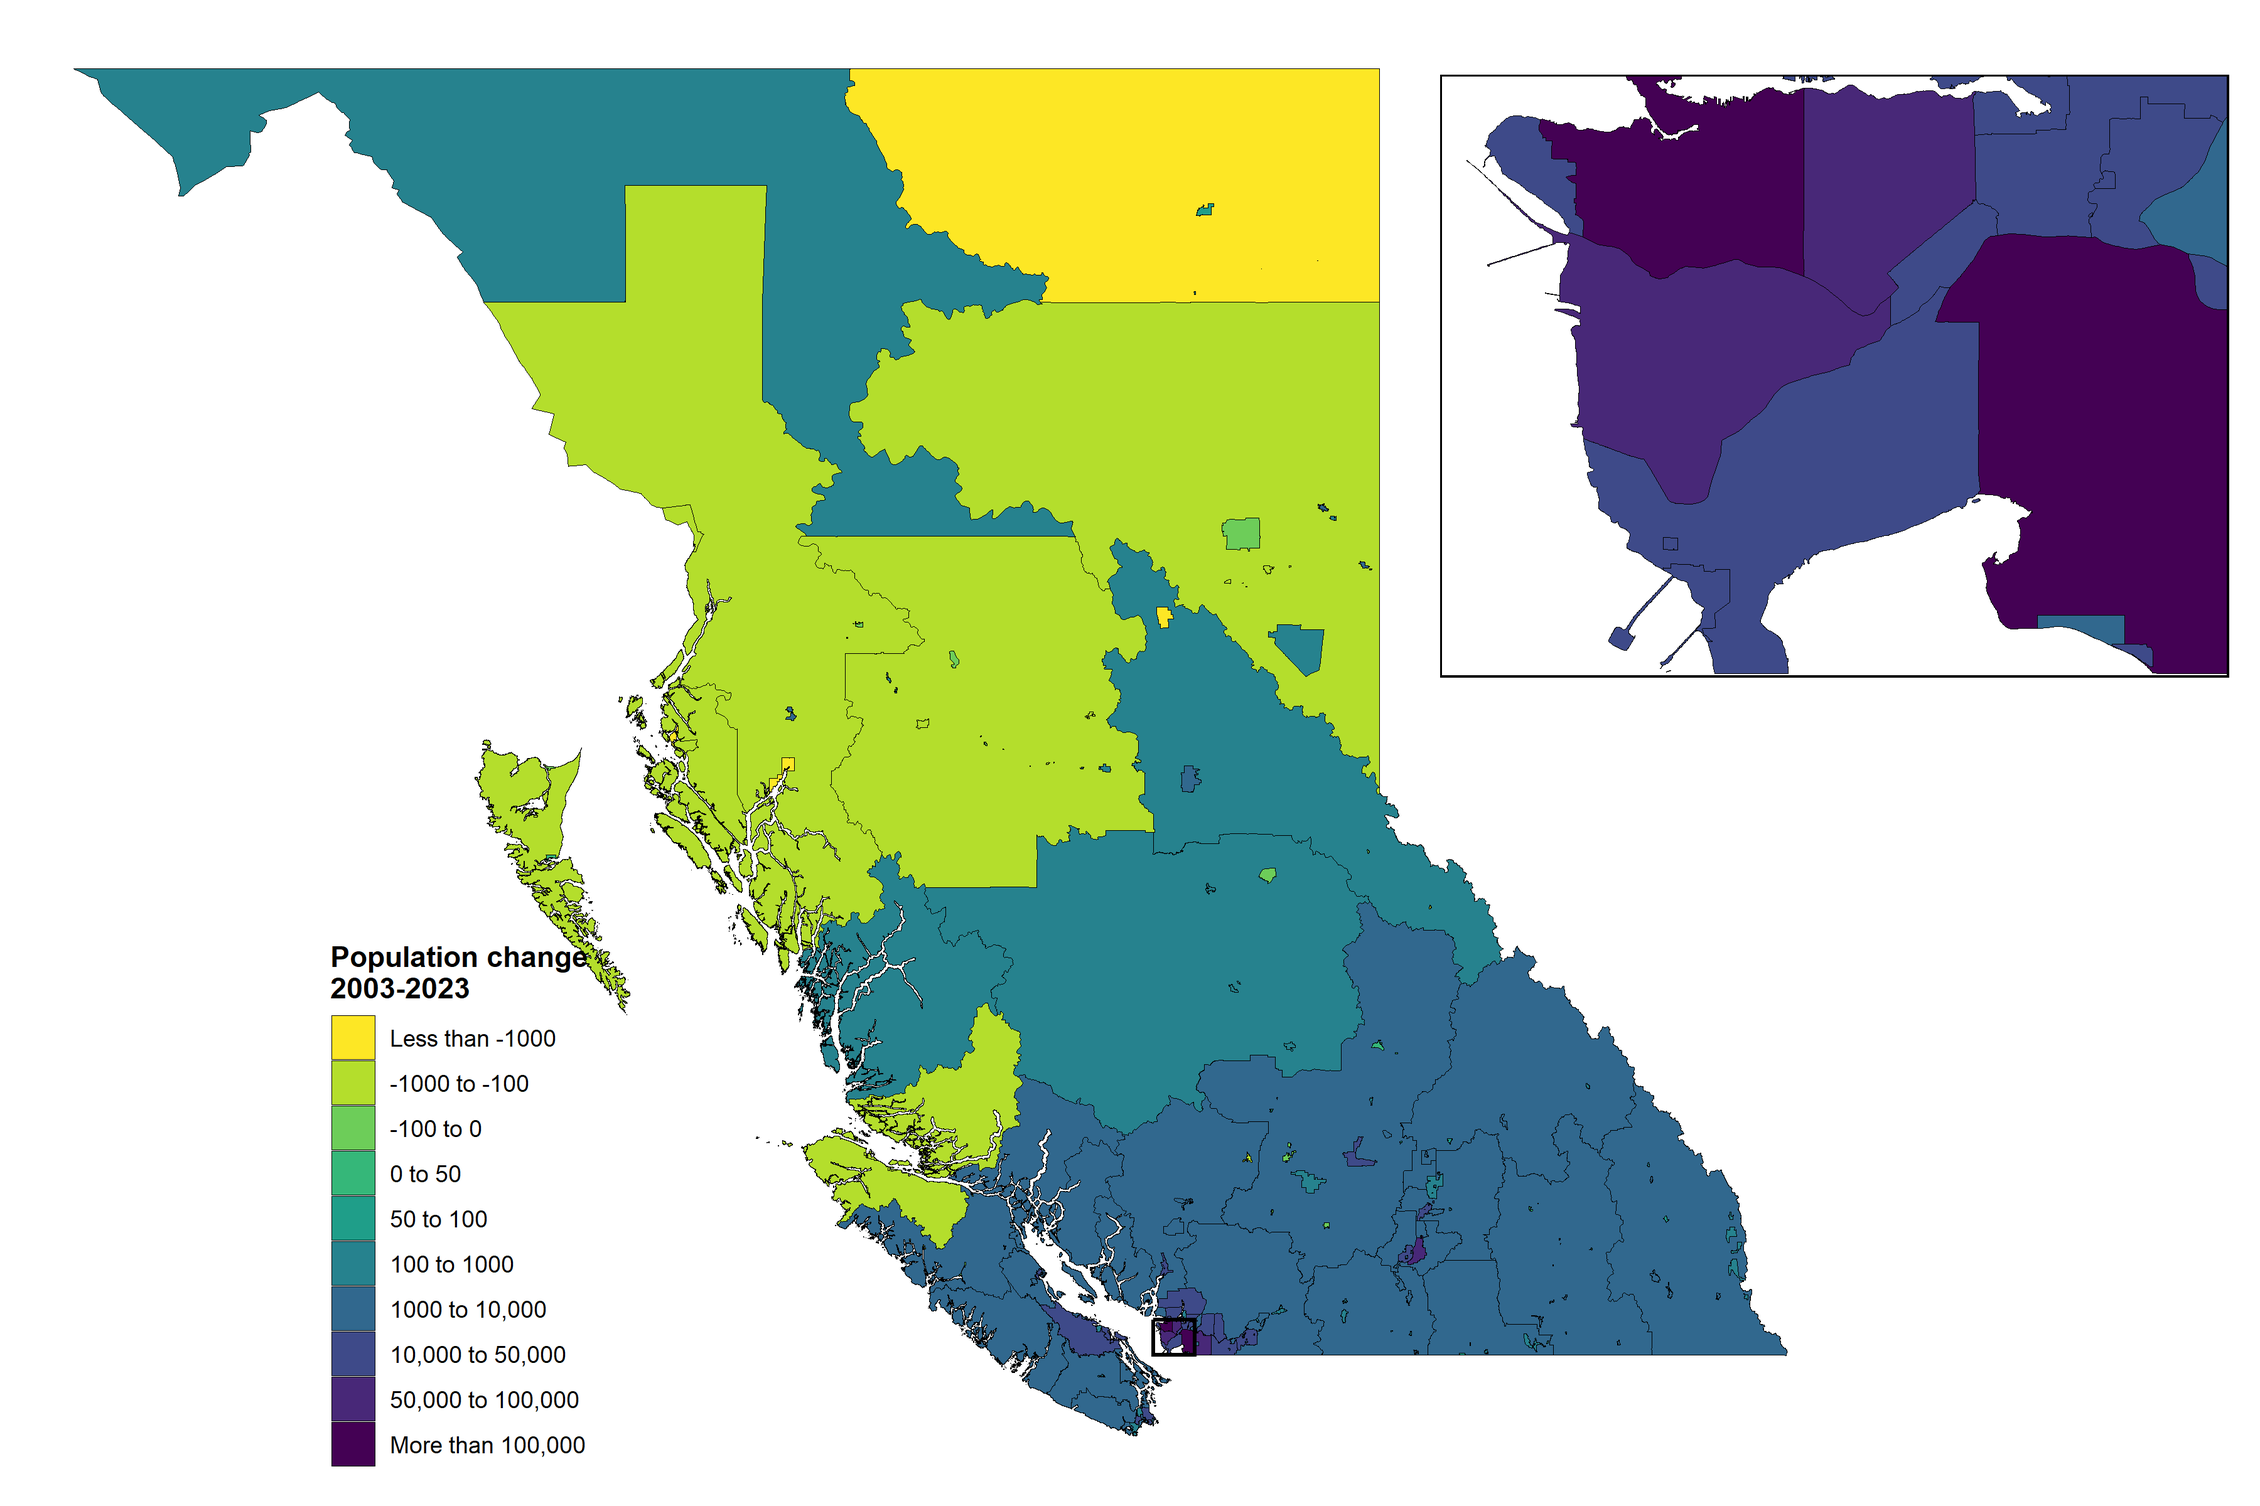
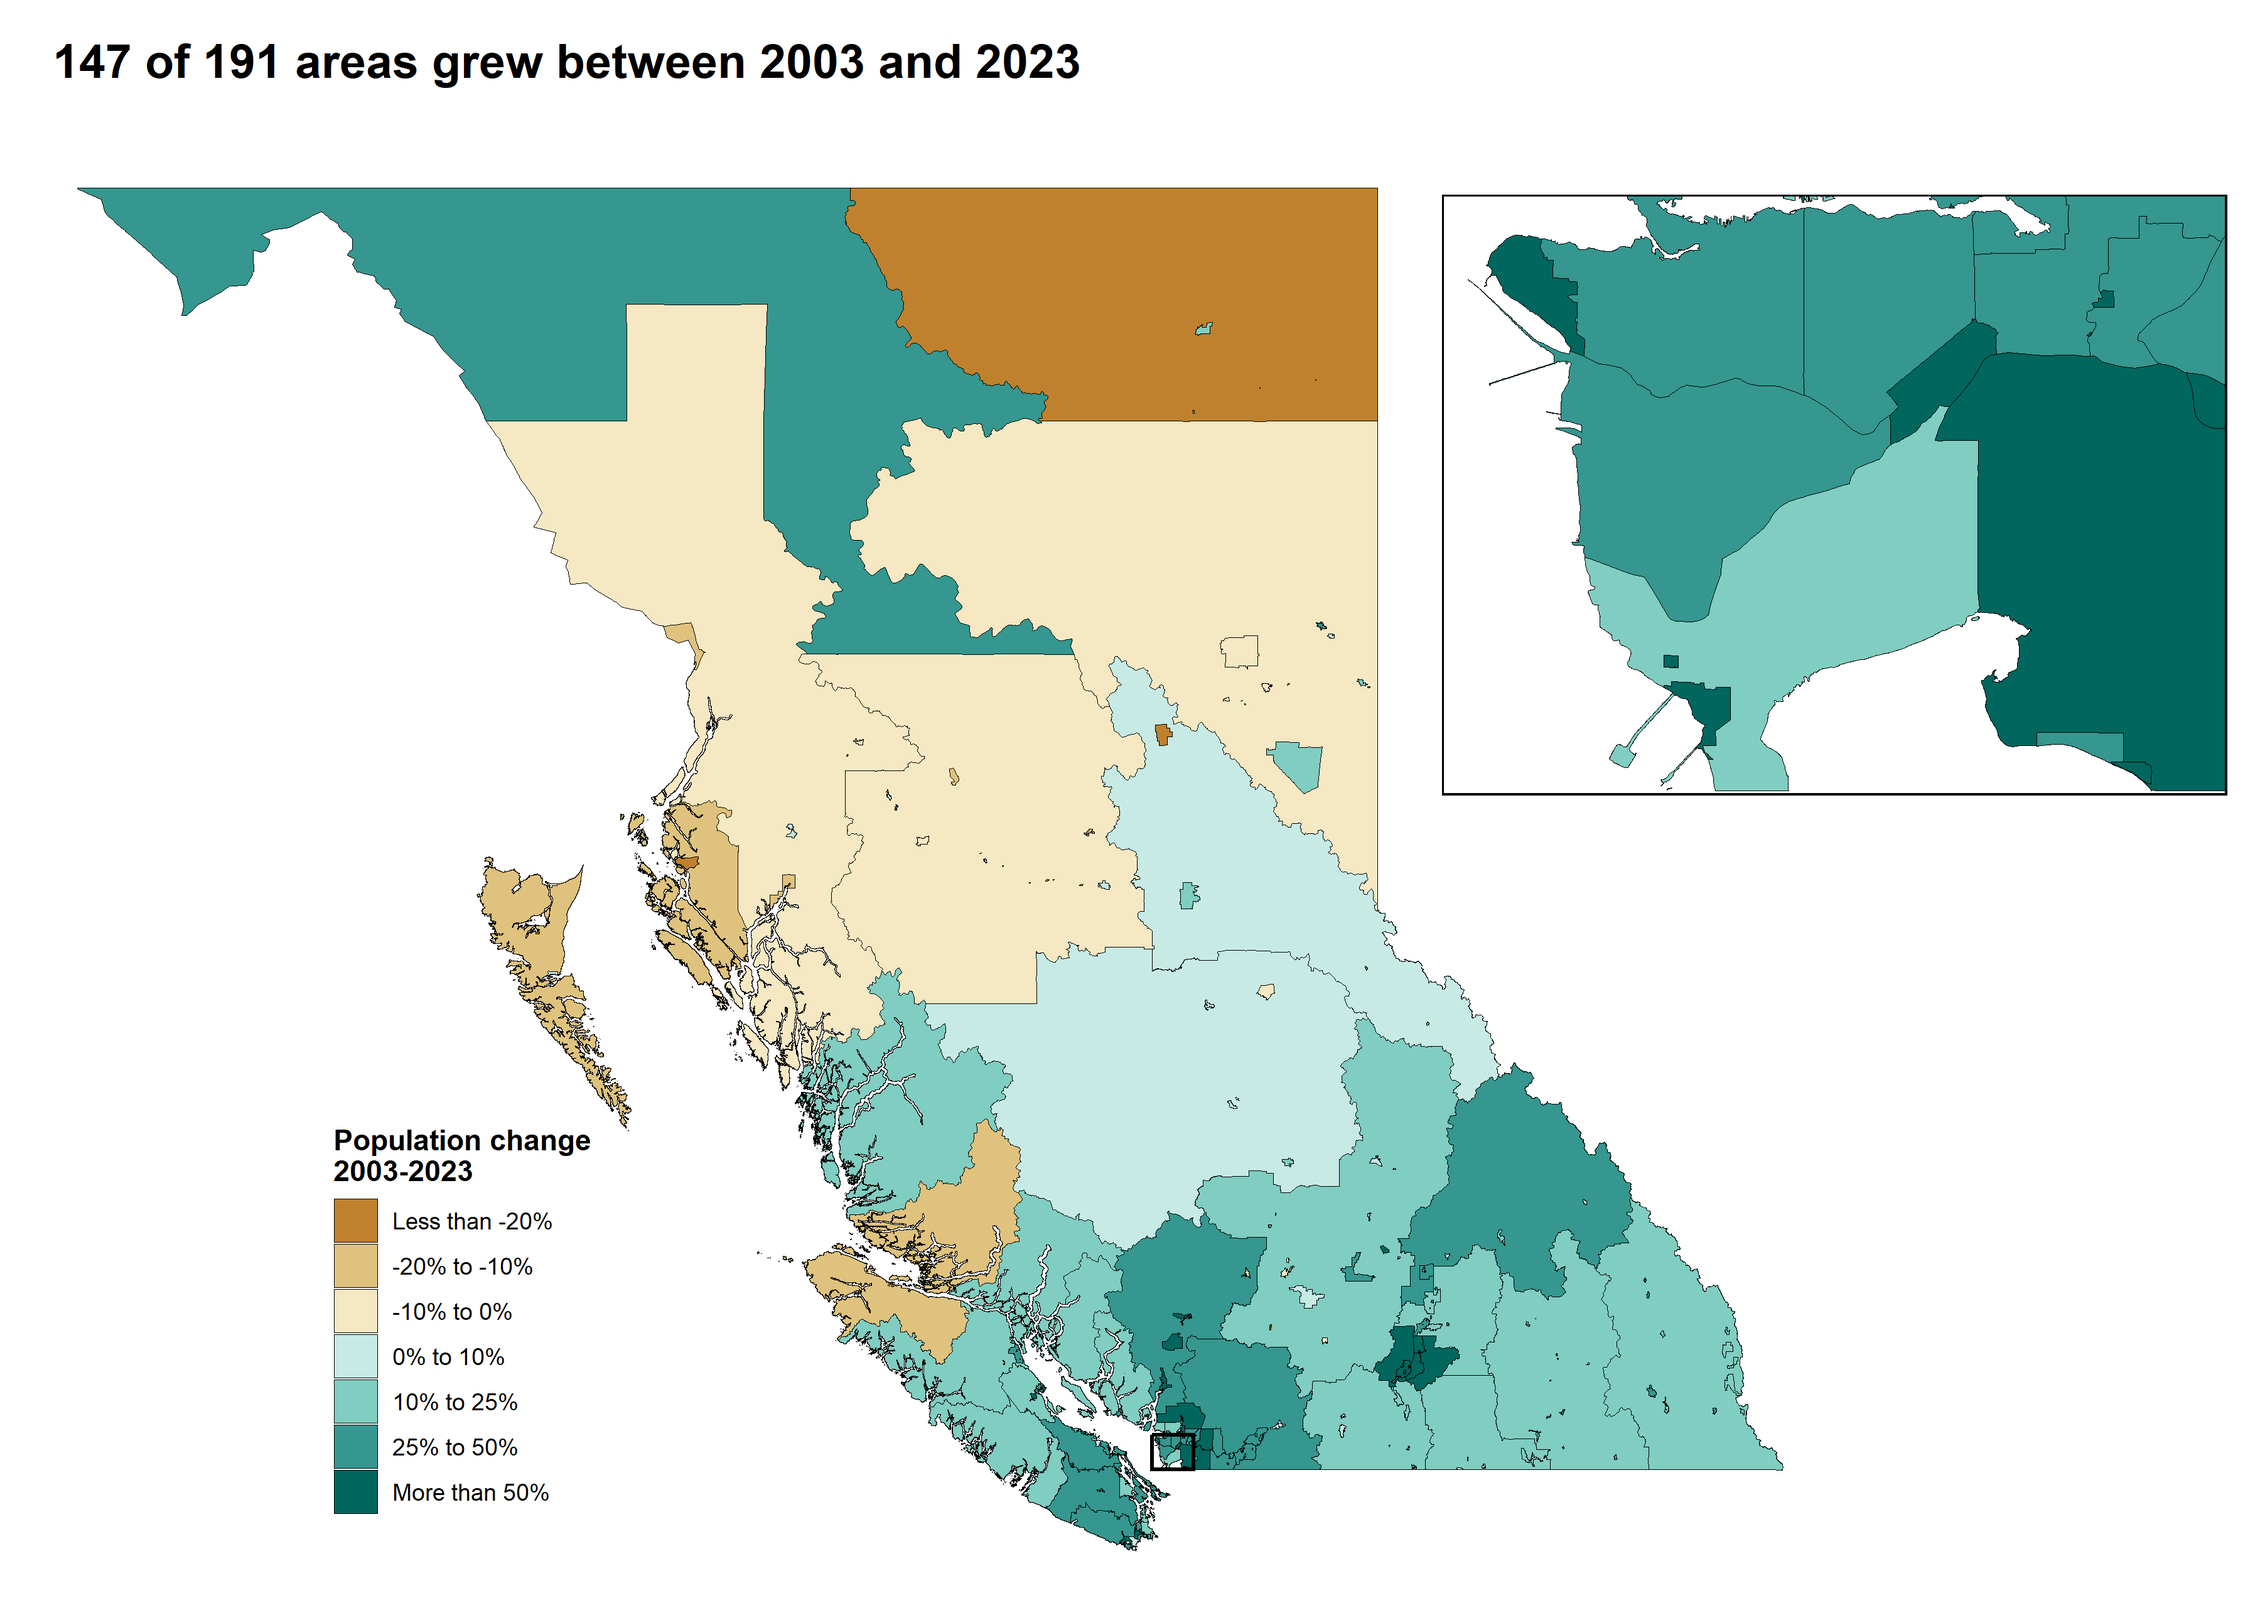
Map percent change on a diverging scale and lead with the findings

diff --git a/README.md b/README.md
@@ -1,6 +1,12 @@
 # bc_pop_change_map
 
-Maps of absolute population change across British Columbia's municipalities: estimated change from 2003 to 2023, and projected change from 2023 to 2046. Each map has an inset zoomed on Metro Vancouver, where most of the growth is concentrated.
+Where has British Columbia's population grown, and where is it projected to shrink? These maps show the percent change in population for every municipality: estimated change from 2003 to 2023, and BC Stats' projection from 2023 to 2046. Each map has an inset zoomed on Metro Vancouver.
+
+## What it shows
+
+- Growth was widespread: 147 of 191 areas grew between 2003 and 2023. Langford more than doubled (+160%). Most of the areas that lost people are small communities in the north and along the coast.
+- Growth is still concentrated in absolute numbers: Metro Vancouver gained 61% of BC's added residents from 2003 to 2023 and is projected to gain 65% of them by 2046.
+- The projection is less even: 66 of 191 areas are projected to shrink by 2046, across most of the north and the central interior.
 
 ![Population change 2003-2023](maps/change_23_03.png)
 
@@ -9,6 +15,8 @@ Maps of absolute population change across British Columbia's municipalities: est
 ## Data
 
 [BC Sub-Provincial Population Estimates and Projections](https://catalogue.data.gov.bc.ca/dataset/bc-sub-provincial-population-estimates-and-projections), Municipalities (Census Subdivisions) table. The script downloads it directly, so there's nothing to set up. Boundaries come from the [bcmaps](https://github.com/bcgov/bcmaps) package (2021 census subdivisions, clipped to the coastline).
+
+Percent change is shown so that a small town and a big city read on the same scale; colours run brown for loss and teal for growth, centred on zero. Percentages swing more where few people live, as in the large unincorporated areas of the north.
 
 Areas outside municipalities are published as one "Unincorporated Areas" total per regional district, so the script merges those census subdivisions into a single polygon per regional district before joining.
 
